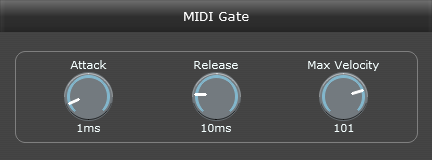
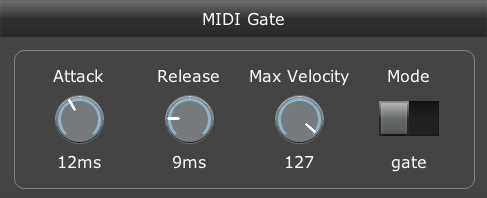
Add "mute" mode to MIDI Gate

diff --git a/index.html b/index.html
@@ -237,7 +237,7 @@ a[href] code {
 <li>Hammer And Chord - a polyphonic string resonator/synth (<a href="audio-demos/hammer-and-chord.mp3">audio demo</a>)</li>
 <li>Hammer And String - a monophonic string resonator/synth with portamento (<a href="audio-demos/hammer-and-string.mp3">audio demo</a>)</li>
 <li>Humonica - harmoniser (<a href="audio-demos/humonica.mp3">audio demo</a>)</li>
-<li>MIDI Gate - a velocity-sensitive MIDI-controlled gate. Audio passes through only when MIDI note is down. (<a href="audio-demos/midi-gate.mp3">audio demo</a>)</li>
+<li>MIDI Gate - a velocity-sensitive MIDI-controlled gate. Audio passes through only when MIDI note is down (or up, in &quot;mute&quot; mode). (<a href="audio-demos/midi-gate.mp3">audio demo</a>)</li>
 <li>MIDI Harmony - arpeggiator and auto-accompaniment plugin</li>
 </ul>
 <p>Presets (RPL) for these effects can be downloaded from GitHub.</p>
@@ -324,6 +324,7 @@ a[href] code {
 <p>This effect is a simple MIDI-controlled gate.  When a MIDI note is down (any MIDI note), the audio is passed through.  Note velocity controls the amplitude, with the loudest value (unit gain) being determined by the &quot;Max Velocity&quot; control. (<a href="audio-demos/midi-gate.mp3">audio demo</a>)</p>
 <p><img src="MIDI Gate.png" alt="screenshot"></p>
 <p>You can also use it with a fast-paced pattern to produce an effect similar to Bad Connection. (<a href="https://geraintluff.github.io/jsfx/audio-demos/midi-gate-fast.mp3">audio demo</a>)</p>
+<p>The &quot;mode&quot; switch inverts the envelope - in &quot;gate&quot; mode, audio only passes through when MIDI notes are held down, in &quot;mute&quot; mode, audio only passes through when no notes are held down.</p>
 </div><h2 id="midi-harmony">MIDI Harmony</h2><div class="section section2">
 <p>This effect shifts MIDI notes up or down by octaves, to fit within a target range.  This can be used to fold whatever chord is being played by some other instrument into a particular region (e.g. one octave around Middle C).</p>
 <p>It has a single-note and a chord mode.  It also has a built-in sequencer, which can be used as an arpeggiator (so it will play a pattern, but only using octave-shifted notes that you are already holding down).</p>

diff --git a/README.md b/README.md
@@ -17,7 +17,7 @@ Download them from [GitHub](https://github.com/geraintluff/jsfx), or [as a ZIP f
 * Hammer And Chord - a polyphonic string resonator/synth ([audio demo](audio-demos/hammer-and-chord.mp3))
 * Hammer And String - a monophonic string resonator/synth with portamento ([audio demo](audio-demos/hammer-and-string.mp3))
 * Humonica - harmoniser ([audio demo](audio-demos/humonica.mp3))
-* MIDI Gate - a velocity-sensitive MIDI-controlled gate. Audio passes through only when MIDI note is down. ([audio demo](audio-demos/midi-gate.mp3))
+* MIDI Gate - a velocity-sensitive MIDI-controlled gate. Audio passes through only when MIDI note is down (or up, in "mute" mode). ([audio demo](audio-demos/midi-gate.mp3))
 * MIDI Harmony - arpeggiator and auto-accompaniment plugin
 
 Presets (RPL) for these effects can be downloaded from GitHub.
@@ -175,6 +175,8 @@ This effect is a simple MIDI-controlled gate.  When a MIDI note is down (any MID
 ![screenshot](MIDI Gate.png)
 
 You can also use it with a fast-paced pattern to produce an effect similar to Bad Connection. ([audio demo](https://geraintluff.github.io/jsfx/audio-demos/midi-gate-fast.mp3))
+
+The "mode" switch inverts the envelope - in "gate" mode, audio only passes through when MIDI notes are held down, in "mute" mode, audio only passes through when no notes are held down.
 
 ## MIDI Harmony
 
